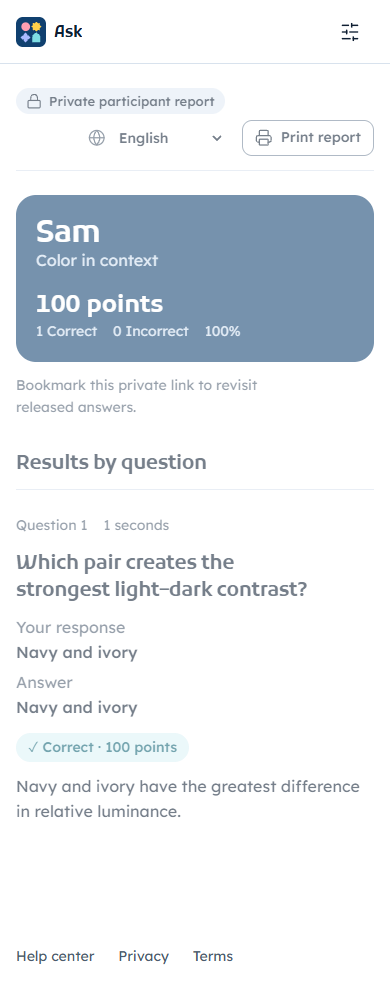
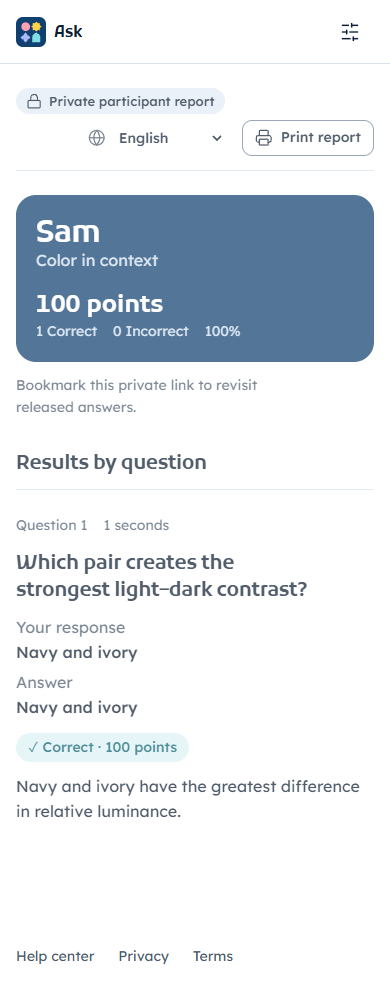
Show active sessions and active users to platform admins
The All users page now lists every session that has not ended, across
organizations, with presenter, participants, responses and progress, and
lets the administrator open its controls or end it.

Accounts record when they last used the site (at most once a minute and
on sign-in or registration), so users show as active now or with their
last activity. The list filters by active or suspended users, sorts by
recent activity, and offers Remove on each row with the same email
confirmation as before.

Adds users.last_seen at startup.

diff --git a/public/accounts.js b/public/accounts.js
@@ -16,9 +16,10 @@ import {
   pageHead,
   empty,
   capped,
+  chip,
   icon,
 } from "./shared.js";
-import { num } from "./locale.js";
+import { num, locale } from "./locale.js";
 
 const roles = [
   ["lecturer", "lecturer"],
@@ -38,6 +39,37 @@ function size(bytes) {
 }
 const bytes = (n) => `<bdi dir="ltr" translate="no">${size(n)}</bdi>`;
 const count = (n, one, many) => (n === 1 ? one : `${num(n)} ${many}`);
+/** "5 minutes ago", in the reader's language. */
+function ago(ms, now) {
+  if (!ms) return "Never signed in";
+  const words = new Intl.RelativeTimeFormat(locale(), { numeric: "auto" }),
+    s = Math.round((ms - now) / 1000);
+  for (const [unit, size] of [
+    ["day", 86400],
+    ["hour", 3600],
+    ["minute", 60],
+  ])
+    if (Math.abs(s) >= size) return words.format(Math.round(s / size), unit);
+  return words.format(0, "minute");
+}
+const activeNow = (u, r) => !u.suspended && r.now - u.last_seen < r.active;
+const seen = (u, r) =>
+  activeNow(u, r)
+    ? '<span class="chip live">Active now</span>'
+    : `<span class="seen">${u.last_seen ? "Last active" : ""} <time translate="no">${esc(ago(u.last_seen, r.now))}</time></span>`;
+/* Removal asks for the email, then reports and returns where it was asked. */
+async function remove(u, after) {
+  const confirm = await confirmAction(
+    "Remove this account?",
+    "The account and all its data are deleted, including students’ result links. This cannot be undone.",
+    "Remove account",
+    u.email,
+  );
+  if (!confirm) return;
+  await api("admin/accounts/" + u.id, "POST", { action: "remove", confirm });
+  notice("Account removed.");
+  await after();
+}
 const chips = (u, self) =>
   (u.suspended ? '<span class="chip bad">Suspended</span>' : "") +
   (u.verified ? "" : '<span class="chip">Email not verified</span>') +
@@ -46,35 +78,52 @@ const chips = (u, self) =>
 
 /** Every registered account on the platform, for the platform administrator. */
 async function users() {
-  const r = await api("admin/accounts"),
+  const [r, live] = await Promise.all([
+      api("admin/accounts"),
+      api("admin/sessions"),
+    ]),
     total = r.accounts.reduce((sum, u) => sum + u.usage.bytes, 0),
     most = Math.max(1, ...r.accounts.map((u) => u.usage.bytes));
   const row = (u) =>
-    `<div class="listitem account-row"><div><strong translate="no" dir="auto">${esc(u.name)}</strong><p class="meta"><span translate="no" dir="ltr">${esc(u.email)}</span><span translate="no" dir="auto">${esc(u.organization)}</span></p></div><div class="account-chips">${chips(u, r.self)}</div><div class="account-data"><b>${bytes(u.usage.bytes)}</b><progress value="${u.usage.bytes}" max="${most}" aria-label="Data used"></progress></div>${link("Manage", "#/users/" + u.id, "button small")}</div>`;
+    `<div class="listitem account-row"><div><strong translate="no" dir="auto">${esc(u.name)}</strong><p class="meta"><span translate="no" dir="ltr">${esc(u.email)}</span><span translate="no" dir="auto">${esc(u.organization)}</span></p></div><div class="account-chips">${chips(u, r.self)}</div><div class="account-data"><b>${bytes(u.usage.bytes)}</b><progress value="${u.usage.bytes}" max="${most}" aria-label="Data used"></progress></div><div class="account-actions">${seen(u, r)}<div class="actions">${link("Manage", "#/users/" + u.id, "button small")}${u.id === r.self || u.role === "super" ? "" : btn("Remove", "remove:" + u.id, "small quiet danger", "trash")}</div></div></div>`;
+  const session = (v) =>
+    `<div class="listitem session-row"><div><strong translate="no" dir="auto">${esc(v.title)}</strong><p class="meta"><span><span>PIN</span> <b class="pin">${esc(v.pin)}</b></span><span translate="no" dir="auto">${esc(v.presenter || "Removed account")}</span><span translate="no" dir="auto">${esc(v.organization)}</span></p></div>${chip(v.phase)}<p class="meta"><span>${`${num(v.participants)} participants`}</span><span>${`${num(v.responses)} responses`}</span>${v.phase === "waiting" ? "" : `<span>${`Question ${v.position + 1} of ${v.questions}`}</span>`}</p><div class="actions">${link("Open controls", "#/host/" + v.pin, "button small")}${btn("End session", "end:" + v.pin, "small quiet danger", "stop")}</div></div>`;
   main.innerHTML = `${pageHead("All users", "", link("Platform administration", "#/admin", "button", "prev"))}<dl class="figures">${[
     ["Users", num(r.accounts.length)],
-    ["Suspended", num(r.accounts.filter((u) => u.suspended).length)],
-    ["Sessions", num(r.accounts.reduce((n, u) => n + u.usage.sessions, 0))],
+    ["Active now", num(r.accounts.filter((u) => activeNow(u, r)).length)],
+    ["Active sessions", num(live.length)],
     ["Data used", bytes(total)],
   ]
     .map(([k, v]) => `<div><dt>${k}</dt><dd>${v}</dd></div>`)
     .join(
       "",
-    )}</dl><div class="toolbar">${field("Search name, email or organization", "search", "", "search")}${select("Role", "filter", [["", "Every role"], ...roles], "")}${select(
+    )}</dl><section class="block"><div class="row"><h2>Active sessions</h2><p class="hint">Sessions that have not ended, across every organization.</p></div>${live.length ? capped(live.map(session)) : empty("No sessions are running.")}</section><section class="block"><h2>Users</h2><div class="toolbar">${field("Search name, email or organization", "search", "", "search")}${select("Role", "filter", [["", "Every role"], ...roles], "")}${select(
+    "Show",
+    "state",
+    [
+      ["", "Everyone"],
+      ["active", "Active now"],
+      ["suspended", "Suspended"],
+    ],
+    "",
+  )}${select(
     "Sort by",
     "sort",
     [
       ["name", "Name"],
       ["data", "Most data"],
+      ["seen", "Recently active"],
     ],
     "name",
-  )}</div><div id="users" aria-live="polite"></div>`;
+  )}</div><div id="users" aria-live="polite"></div></section>`;
   const draw = () => {
     const query = $("[name=search]").value.trim().toLowerCase(),
-      role = $("[name=filter]").value;
+      role = $("[name=filter]").value,
+      state = $("[name=state]").value;
     const list = r.accounts.filter(
       (u) =>
         (!role || u.role === role) &&
+        (!state || (state === "active" ? activeNow(u, r) : u.suspended)) &&
         [u.name, u.email, u.organization]
           .join(" ")
           .toLowerCase()
@@ -82,14 +131,38 @@ async function users() {
     );
     if ($("[name=sort]").value === "data")
       list.sort((a, b) => b.usage.bytes - a.usage.bytes);
+    if ($("[name=sort]").value === "seen")
+      list.sort((a, b) => b.last_seen - a.last_seen);
     $("#users").innerHTML = list.length
       ? capped(list.map(row))
       : empty("No matching users.");
   };
   $("[name=search]").oninput = draw;
   $("[name=filter]").onchange = draw;
+  $("[name=state]").onchange = draw;
   $("[name=sort]").onchange = draw;
   draw();
+  actions(async (a) => {
+    if (a.startsWith("remove:"))
+      return remove(
+        r.accounts.find((u) => u.id === a.slice(7)),
+        users,
+      );
+    if (a.startsWith("end:")) {
+      const pin = a.slice(4);
+      if (
+        !(await confirmAction(
+          "End this session?",
+          "Answering closes for everyone.",
+          "End session",
+        ))
+      )
+        return;
+      await api("rooms/" + pin + "/control", "POST", { action: "end" });
+      notice("Session ended.");
+      await users();
+    }
+  });
 }
 
 /** One account: what it stores and what the administrator may do with it. */
@@ -106,7 +179,7 @@ async function account(id) {
     `<div class="usage-row"><div><strong>${label}</strong><p class="meta"><span>${detail}</span></p></div><progress value="${value}" max="${Math.max(1, g.bytes)}" aria-label="${label}"></progress><b>${bytes(value)}</b></div>`;
   const section = (heading, note, body) =>
     `<section><div><h2>${heading}</h2><p>${note}</p></div><div class="stack">${body}</div></section>`;
-  main.innerHTML = `${pageHead("Manage account", "", link("All users", "#/users", "button", "prev"))}<div class="account-card"><div><h2 translate="no" dir="auto">${esc(u.name)}</h2><p class="meta"><span translate="no" dir="ltr">${esc(u.email)}</span><span translate="no" dir="auto">${esc(u.organization)}</span></p></div><div class="account-chips">${chips(u, r.self)}</div></div><div class="settings">${section(
+  main.innerHTML = `${pageHead("Manage account", "", link("All users", "#/users", "button", "prev"))}<div class="account-card"><div><h2 translate="no" dir="auto">${esc(u.name)}</h2><p class="meta"><span translate="no" dir="ltr">${esc(u.email)}</span><span translate="no" dir="auto">${esc(u.organization)}</span></p></div><div class="account-chips">${chips(u, r.self)}${seen(u, r)}</div></div><div class="settings">${section(
     "Data used",
     "Space stored in the database.",
     `<p class="big">${bytes(g.bytes)}</p><div class="usage">${part("Quizzes", count(g.quizzes, "1 quiz", "quizzes"), g.data.quizzes)}${part("Question media", count(g.media, "1 file", "files"), g.data.media)}${part("Sessions and answers", `${count(g.sessions, "1 session", "sessions")}</span><span>${num(g.participants)} participants</span><span>${num(g.answers)} responses`, g.data.sessions)}${part("Session photographs", count(g.photos, "1 photo", "photos"), g.data.photos)}</div>`,
@@ -218,18 +291,7 @@ async function account(id) {
       notice("Data cleared.");
       return account(id);
     }
-    if (a === "remove") {
-      const confirm = await confirmAction(
-        "Remove this account?",
-        "The account and all its data are deleted, including students’ result links. This cannot be undone.",
-        "Remove account",
-        u.email,
-      );
-      if (!confirm) return;
-      await act("remove", { confirm });
-      notice("Account removed.");
-      go("users");
-    }
+    if (a === "remove") return remove(u, () => go("users"));
   });
 }
 export { users, account };

diff --git a/public/translations-redesign.js b/public/translations-redesign.js
@@ -143,6 +143,17 @@ export const redesign = [
     "وێنەگرتن پێویستی بە ڕەزامەندیی تۆ هەیە. لە پێشانگای وێنەکانی دانیشتنەکە ڕەزامەندیت بکشێنەرەوە بۆ لابردنی وێنەکانت. بۆ بینین یان سڕینەوە پەیوەندی بەو لایەنە بکە کە دانیشتنەکە بەڕێوە دەبات.",
   ],
   ["Participation", "المشاركة", "بەشداری"],
+  ["Active now","نشط الآن","ئێستا چالاکە"],
+  ["Last active","آخر نشاط","دوا چالاکی"],
+  ["Never signed in","لم يسجّل الدخول قط","هەرگیز نەچووەتە ژوورەوە"],
+  ["Active sessions","الجلسات النشطة","دانیشتنە چالاکەکان"],
+  ["Sessions that have not ended, across every organization.","الجلسات التي لم تنتهِ في كل المؤسسات.","ئەو دانیشتنانەی کۆتاییان نەهاتووە، لە هەموو دامەزراوەکاندا."],
+  ["No sessions are running.","لا توجد جلسات قيد التشغيل.","هیچ دانیشتنێک لە کاردا نییە."],
+  ["Removed account","حساب محذوف","هەژماری لابراو"],
+  ["Everyone","الجميع","هەمووان"],
+  ["Recently active","الأحدث نشاطاً","دوایین چالاکەکان"],
+  ["Remove","إزالة","لابردن"],
+  ["Session ended.","انتهت الجلسة.","دانیشتنەکە کۆتایی هات."],
   ["Manage", "إدارة", "بەڕێوەبردن"],
   ["Manage account", "إدارة الحساب", "بەڕێوەبردنی هەژمار"],
   ["Organization administrator", "مدير المؤسسة", "بەڕێوەبەری دامەزراوە"],

diff --git a/public/style.css b/public/style.css
@@ -1909,6 +1909,22 @@ body[data-view="auth"] #footer {
   align-items: center;
   gap: var(--s2) var(--s5);
 }
+.account-actions {
+  display: grid;
+  justify-items: end;
+  gap: var(--s1);
+}
+.seen {
+  color: var(--muted);
+  font-size: 0.8125rem;
+  white-space: nowrap;
+}
+.session-row {
+  display: grid;
+  grid-template-columns: minmax(0, 1.5fr) auto minmax(0, 1fr) auto;
+  align-items: center;
+  gap: var(--s2) var(--s5);
+}
 .account-data {
   display: grid;
   gap: 0.3rem;
@@ -1974,6 +1990,23 @@ body[data-view="auth"] #footer {
   }
   .account-data {
     max-width: 14rem;
+  }
+  .account-actions {
+    justify-items: start;
+  }
+  .session-row {
+    grid-template-columns: minmax(0, 1fr) auto;
+  }
+  .session-row > :first-child {
+    grid-column: 1;
+  }
+  .session-row > p,
+  .session-row > .actions {
+    grid-column: 1 / -1;
+  }
+  .session-row > .chip {
+    grid-row: 1;
+    grid-column: 2;
   }
 }
 @media (max-width: 480px) {

diff --git a/public/sw.js b/public/sw.js
@@ -1,4 +1,4 @@
-const version = "chorusroom-shell-v13";
+const version = "chorusroom-shell-v14";
 const shell = [
   "/",
   "/style.css",

diff --git a/docs/MANUAL.md b/docs/MANUAL.md
@@ -45,7 +45,7 @@ The participant should bookmark My private results before leaving the device. Th
 
 ## Photographs and marking
 
-The platform administrator sees **All users** in the side menu: every registered account with its organization, role and activity, with search and a role filter. **Manage** opens one account: the space it uses (quizzes, question media, sessions and answers, photographs), its role, a single-use password reset link, suspension, clearing its data, and removal. Passwords are never shown. Resetting signs the account out and its old password stops working. A suspended account cannot sign in and its sessions accept no new participants. Clearing and removing require typing the account's email and cannot be undone; media that a colleague's quiz or session still shows is kept. An administrator cannot act on their own account, and another platform administrator must be given a different role first. Every action is in the audit log. Other roles cannot open these pages. The deployment guide explains how to promote an account.
+The platform administrator sees **All users** in the side menu: every registered account with its organization, role and activity, with search and a role filter. The page also lists **active sessions** in every organization, with presenter, participants and responses, and lets you open their controls or end them. Users are marked **Active now** when they used the site in the last 15 minutes; otherwise the list shows when they were last active. Filter by **Active now** or **Suspended**, sort by recent activity, and use **Remove** on a row to delete an account and all its data. **Manage** opens one account: the space it uses (quizzes, question media, sessions and answers, photographs), its role, a single-use password reset link, suspension, clearing its data, and removal. Passwords are never shown. Resetting signs the account out and its old password stops working. A suspended account cannot sign in and its sessions accept no new participants. Clearing and removing require typing the account's email and cannot be undone; media that a colleague's quiz or session still shows is kept. An administrator cannot act on their own account, and another platform administrator must be given a different role first. Every action is in the audit log. Other roles cannot open these pages. The deployment guide explains how to promote an account.
 
 Typed answers (Text answer, Fill in the blank, Survey, Brainstorm and Word cloud) can be marked by hand during or after a session. Open **Mark answers** from presenter controls, read each answer and give full, partial or no points. Leave the correct answer blank in the editor to mark every response yourself. If a key is set, matching answers score automatically and you can still change the points. Students see points once the answer is released; until then, or until marked, results say so. A student who changes an answer returns it to the list.
 
